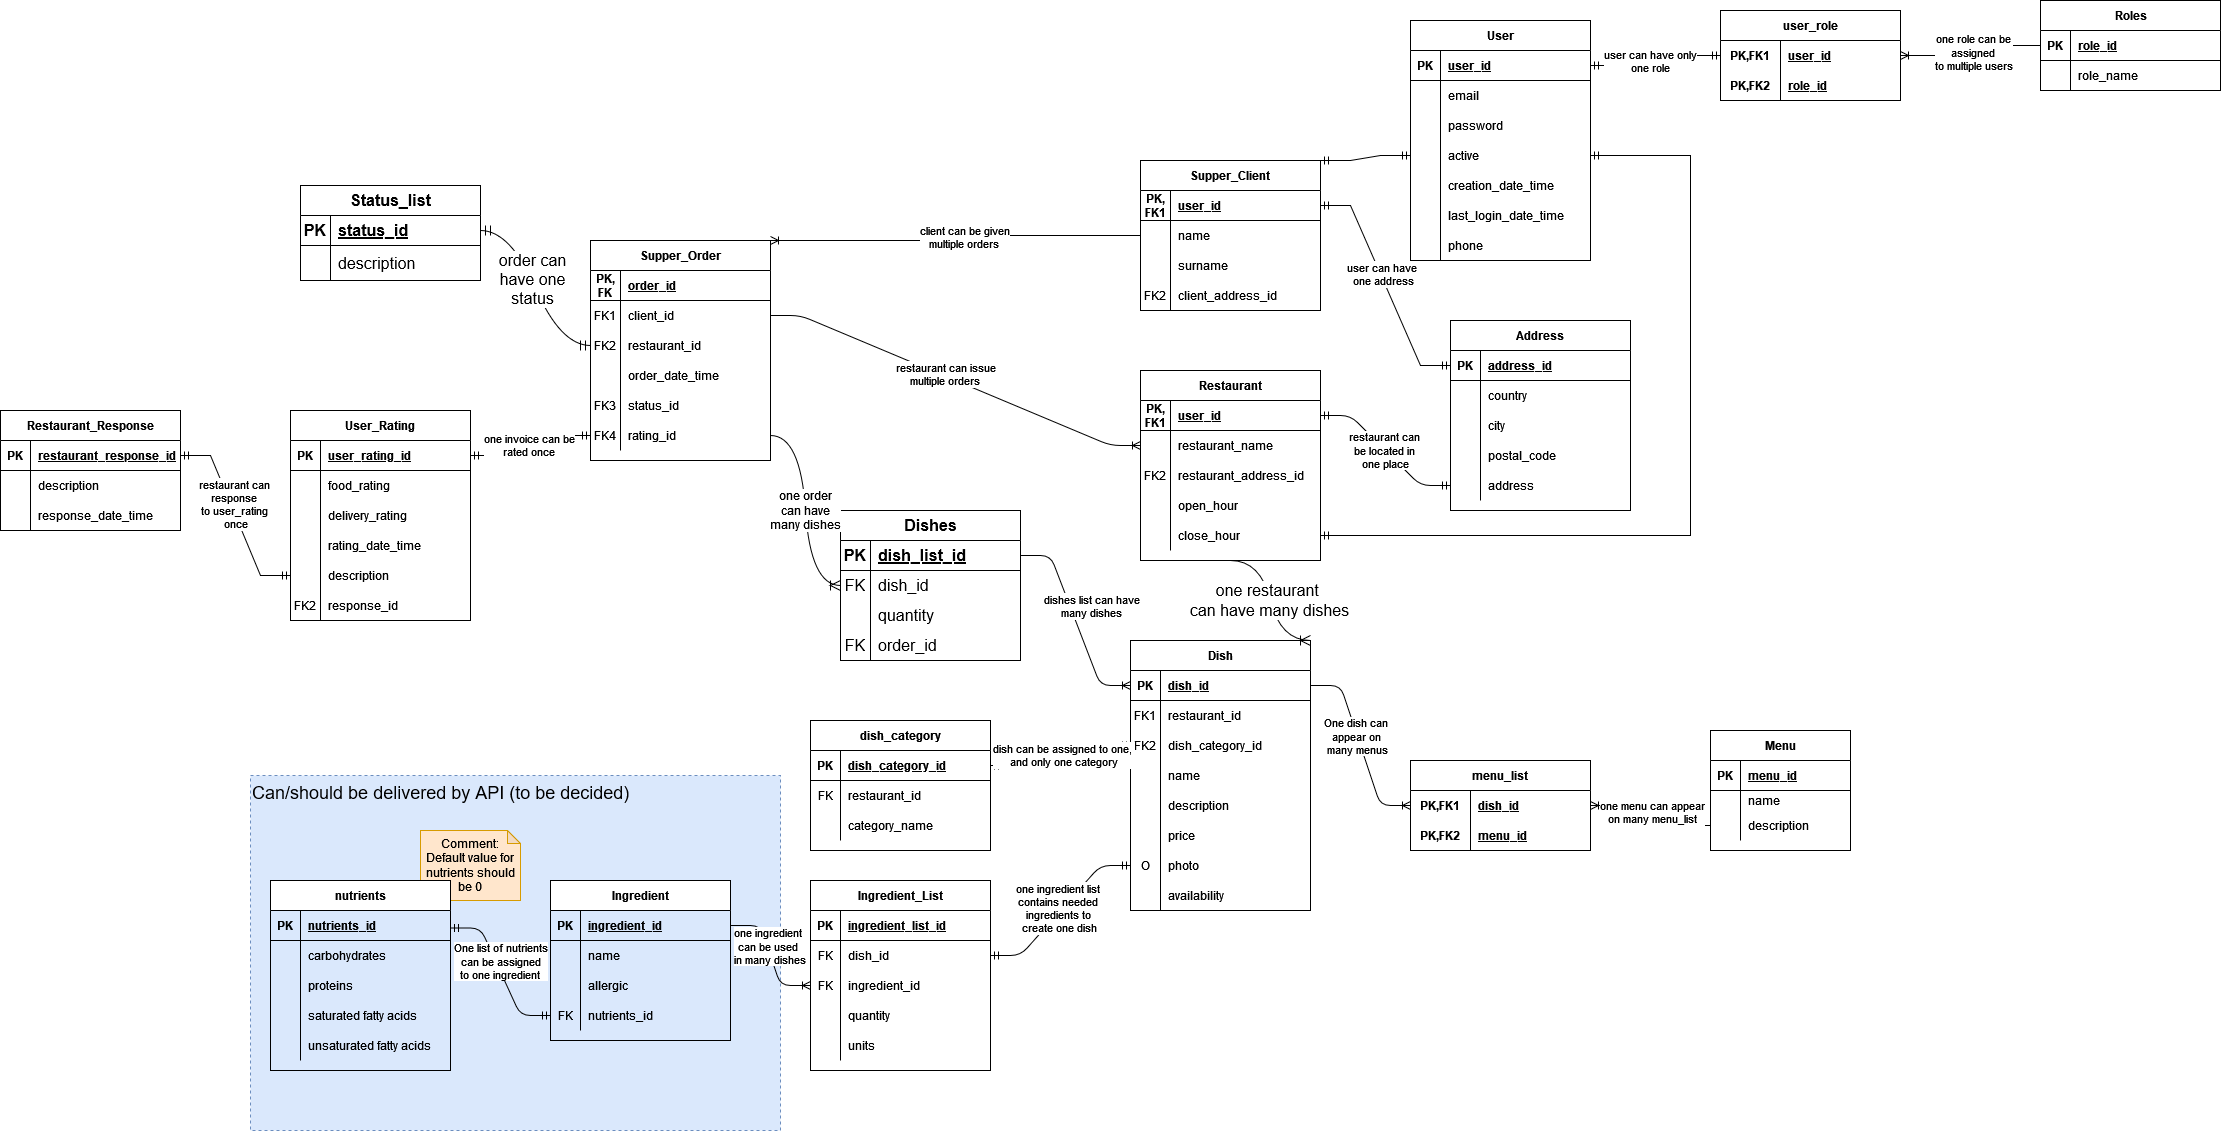
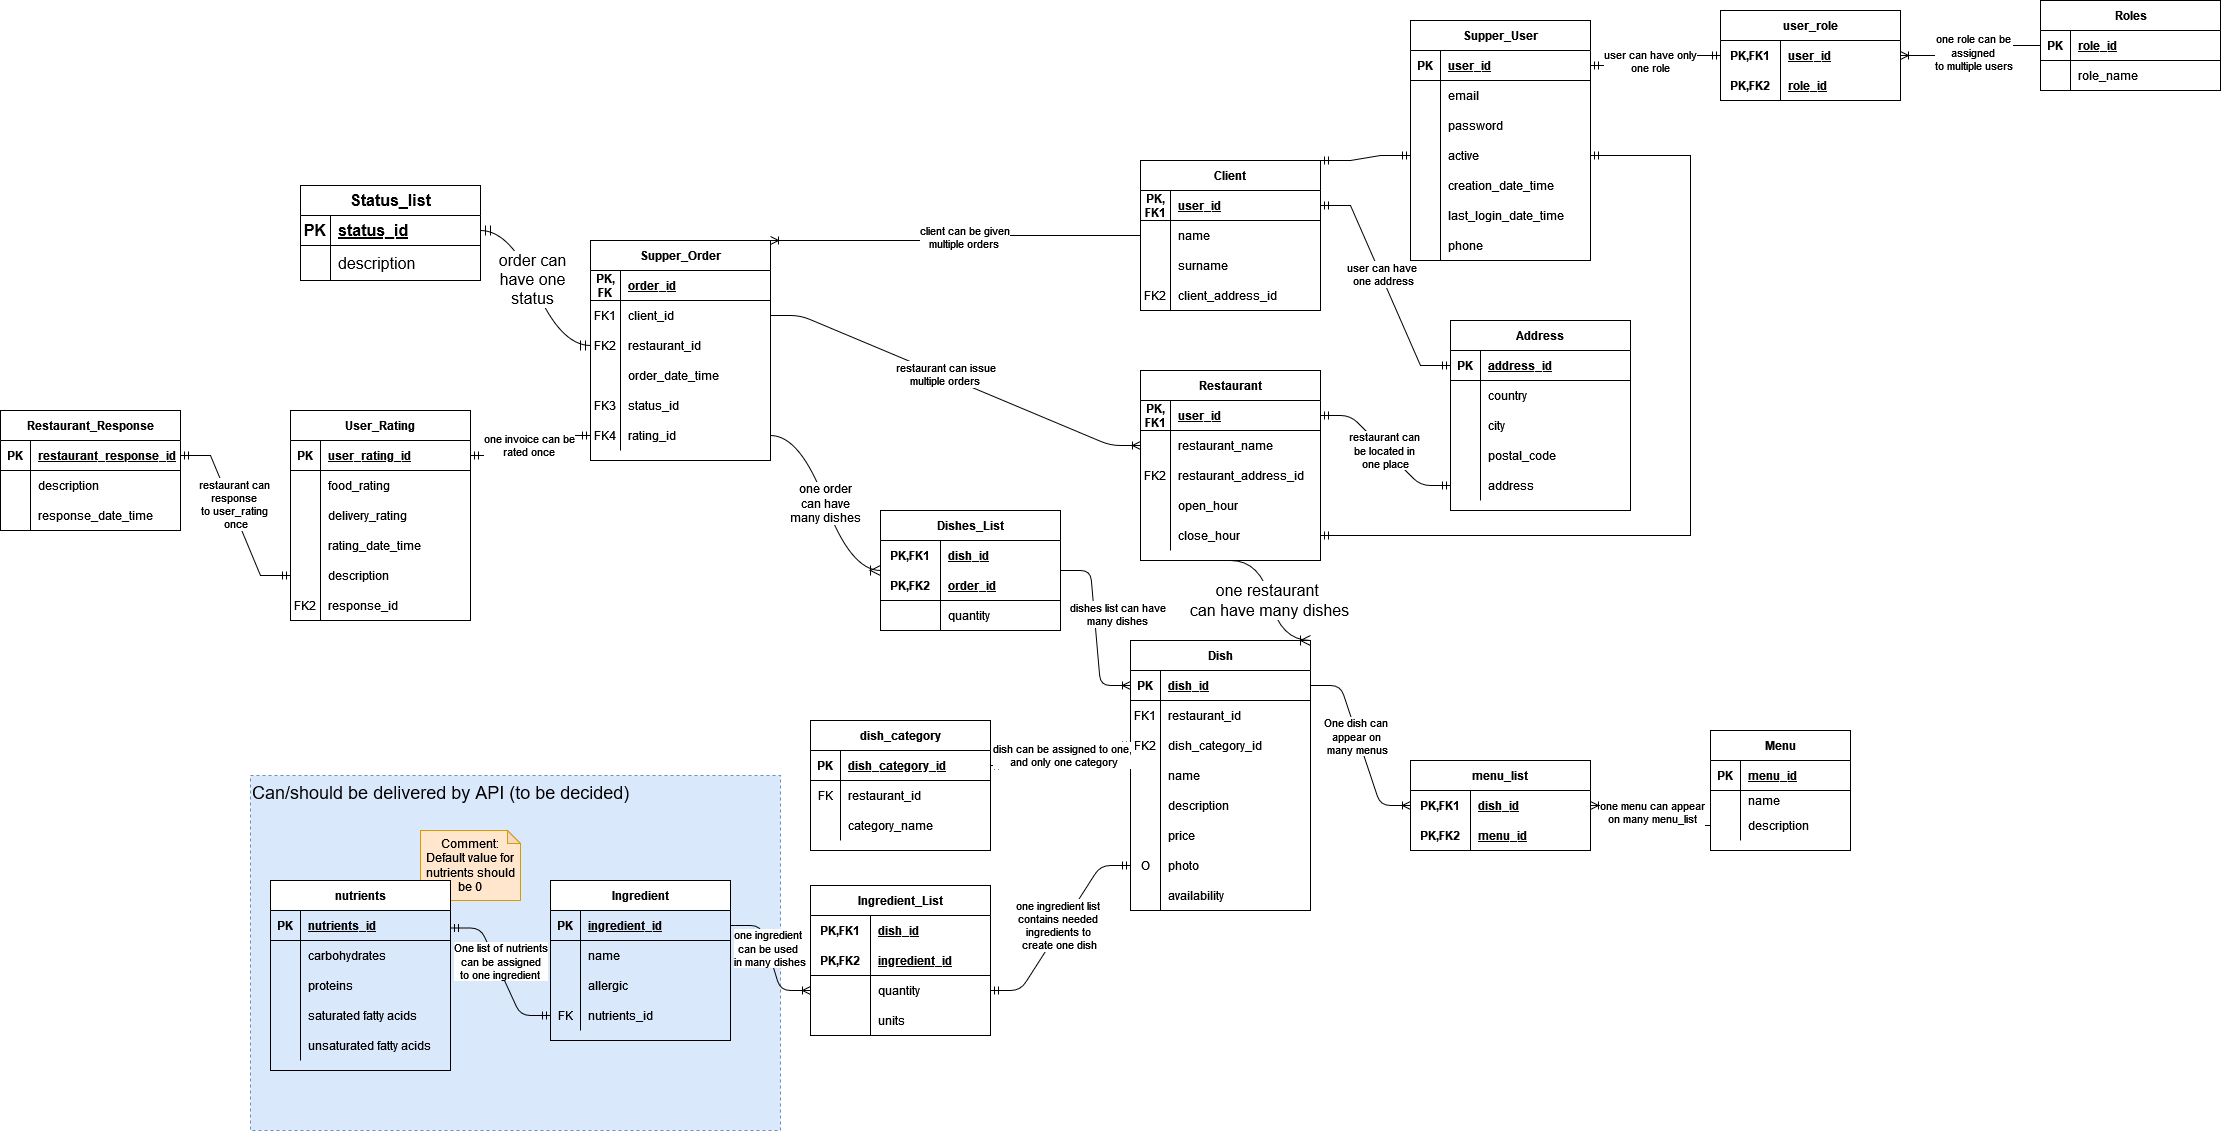
Added DishCategory and Ingredient Entities. Corrected ingredient_list sql. Updated ERD: - modified dishes_list table - modified ingredient_list table

Changed region(s): [[0.3107, 0.7737, 0.4971, 0.9284], [0.3417, 0.4332, 0.5281, 0.588]]

diff --git a/src/main/java/pl/Aevise/SupperSpeed/infrastructure/database/entity/DishCategoryEntity.java b/src/main/java/pl/Aevise/SupperSpeed/infrastructure/database/entity/DishCategoryEntity.java
@@ -1,0 +1,29 @@
+package pl.Aevise.SupperSpeed.infrastructure.database.entity;
+
+import jakarta.persistence.*;
+import lombok.*;
+
+@Getter
+@Setter
+@EqualsAndHashCode(of = "dishCategoryId")
+@ToString(of = {"categoryName"})
+@Builder
+@NoArgsConstructor
+@AllArgsConstructor
+@Entity
+@Table(name = "dish_category")
+public class DishCategoryEntity {
+
+    @Id
+    @GeneratedValue(strategy = GenerationType.IDENTITY)
+    @Column(name = "dish_category_id", nullable = false, unique = true)
+    private Integer dishCategoryId;
+
+    @Column(name = "category_name")
+    private String categoryName;
+
+    @ManyToOne(fetch = FetchType.LAZY)
+    @JoinColumn(name = "user_id")
+    private RestaurantEntity restaurant;
+
+}

diff --git a/src/main/java/pl/Aevise/SupperSpeed/infrastructure/database/entity/IngredientEntity.java b/src/main/java/pl/Aevise/SupperSpeed/infrastructure/database/entity/IngredientEntity.java
@@ -1,0 +1,28 @@
+package pl.Aevise.SupperSpeed.infrastructure.database.entity;
+
+import jakarta.persistence.*;
+import lombok.*;
+
+@Getter
+@Setter
+@EqualsAndHashCode(of = "ingredientId")
+@ToString(of = {"name", "allergic"})
+@Builder
+@NoArgsConstructor
+@AllArgsConstructor
+@Entity
+@Table(name = "ingredient")
+public class IngredientEntity {
+
+    @Id
+    @GeneratedValue(strategy = GenerationType.IDENTITY)
+    @Column(name = "ingredient_id", nullable = false, unique = true)
+    private Integer ingredientId;
+
+    @Column(name = "name")
+    private String name;
+
+    @Column(name = "allergic")
+    private Boolean allergic;
+
+}
